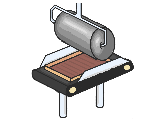
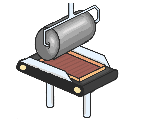
base game template working

Changed region(s): [[0.1067, 0.024, 0.9067, 0.96]]

diff --git a/src/scene/game.js b/src/scene/game.js
@@ -1,23 +1,63 @@
+// const e = require("express");
+
 console.log('game.js running')
 
 var smolDict = {
-    "natural": { "x": 275, "y": 280, "scale": 1.1},
-    "renewable": { "x": 275, "y": 280, "scale": 1.1},
-    "hydroponic": { "x": 300, "y": 300, "scale": 0.7},
-    "soil": {"x": 300, "y": 300, "scale": 1.3},
-    "aquaponic": {"x": 300, "y": 300, "scale": 1.1},
-    "harvester": {"x": 375, "y": 325, "scale": 1.2},
-    "seeding": {"x": 350, "y": 325, "scale": 1.2},
-    "sensor": {"x": 350, "y": 325, "scale": 1.2}
+    'currentElectricity': 0,
+    'totalElectricityAllowable': 1,
+    'currentLeaf': 0 , 
+    'totalLeafAllowable': 1, 
+    'currentRobot': 0, 
+    'totalRobotAllowable': 1,
+    "natural":      { "x": 380, "y": 270, "scale": 1.1},
+    "renewable":    { "x": 380, "y": 270, "scale": 1.1},
+    "hydroponic":   { "x": 260, "y": 260, "scale": 0.7},
+    "soil":         { "x": 260, "y": 260, "scale": 1.3},
+    "aquaponic":    { "x": 260, "y": 260, "scale": 1.0},
+    "harvester":    { "x": 375, "y": 290, "scale": 1.2},
+    "seeding":      { "x": 350, "y": 310, "scale": 1.0},
+    "sensor":       { "x": 290, "y": 300, "scale": 1.3}
 };
 
-var mediumDict = {    
-    "natural": { "x": 600, "y": 200, "scale": 1.2}
+var mediumDict = {
+    'currentElectricity': 0,
+    'totalElectricityAllowable': 1,
+    'currentLeaf': 0 , 
+    'totalLeafAllowable': 1, 
+    'currentRobot': 0, 
+    'totalRobotAllowable': 2,
+    "natural":      { "x": 330, "y": 270, "scale": 1.1},
+    "renewable":    { "x": 330, "y": 270, "scale": 1.1},
+    "hydroponic":   { "x": 200, "y": 290, "scale": 0.7},
+    "soil":         { "x": 200, "y": 290, "scale": 1.3},
+    "aquaponic":    { "x": 200, "y": 290, "scale": 1.0},
+    "harvester":    { "x": 410, "y": 275, "scale": 1.2},
+    "seeding":      { "x": 320, "y": 310, "scale": 1.0},
+    "sensor":       { "x": 220, "y": 340, "scale": 1.3}
 };
 
 var largeDict = {
-    "natural": { "x": 100, "y": 400, "scale": 1.2}
+    'currentElectricity': 0,
+    'totalElectricityAllowable': 1,
+    'currentLeaf': 0 , 
+    'totalLeafAllowable': 1, 
+    'currentRobot': 0, 
+    'totalRobotAllowable': 3,
+    "natural":      { "x": 350, "y": 210, "scale": 1.1},
+    "renewable":    { "x": 350, "y": 210, "scale": 1.1},
+    "hydroponic":   { "x": 230, "y": 270, "scale": 0.8},
+    "soil":         { "x": 230, "y": 270, "scale": 1.4},
+    "aquaponic":    { "x": 230, "y": 270, "scale": 1.1},
+    "harvester":    { "x": 460, "y": 230, "scale": 1.2},
+    "seeding":      { "x": 360, "y": 270, "scale": 1.0},
+    "sensor":       { "x": 230, "y": 320, "scale": 1.3}
 };
+
+// var categories = {
+//     'Electricity' : ['natural', 'renewable'],
+//     'Leaf': ['hydroponic', 'soil', 'aquaponic'],
+//     'Robot': ['harvester', 'seeding', 'sensor']
+// };
 
 var gameScene = new Phaser.Class({
     Extends: Phaser.Scene,
@@ -25,7 +65,7 @@ var gameScene = new Phaser.Class({
         Phaser.Scene.call(this, { "key": "gameScene" });
     },
     init: function(data) {
-        this.roomSize = 0;//data.roomSize; //0 = smol, 1 = medium, 2 = large
+        this.roomSize = 2;//data.roomSize; //0 = smol, 1 = medium, 2 = large
         this.initialTime = 300; //5 minutes timer
     },
     preload: function() {
@@ -38,6 +78,7 @@ var gameScene = new Phaser.Class({
         this.load.image("human", "../assets/gameButtons/human.png");
         this.load.image("leaf", "../assets/gameButtons/leaf.png");
         this.load.image("robot", "../assets/gameButtons/robot.png");
+        this.load.image("done-button", "../assets/gameButtons/done-button.png");        
         
         //option tiles
         this.load.image("harvester", "../assets/tiles/harvester.png");
@@ -80,8 +121,14 @@ var gameScene = new Phaser.Class({
         this.add.image(550, 25, 'sb').setOrigin(0, 0).setScale(1.1);
         
         //adding image of room onto the canvas
-        this.room = this.add.image(50, 100, "roomImage").setOrigin(0, 0);
+        this.room = this.add.image(50, 75, "roomImage").setOrigin(0, 0);
         this.room.setScale(2);
+        
+        //adding in-game error message
+        this.errorText = this.add.text(200, 410, '',
+            {
+                fontSize: 30, color: "#FFFFFF", fontStyle: "bold"
+            });
         
         //adding countdown timer at the top of the page
         this.timeText = this.add.text(32,32, 'Countdown: ' + formatTime(this.initialTime),
@@ -188,10 +235,11 @@ var gameScene = new Phaser.Class({
 
     update: function() {
         if (this.initialTime == 0){
-            this.scene.start("testScene ");
+            this.scene.start("testScene");
         }
     },
 
+    //callbacks to trigger side bar display, trigger event is respective button clicks
     electricityDisplay: function() {
         console.log("Electricity Display triggered");
         var x;
@@ -235,11 +283,31 @@ var gameScene = new Phaser.Class({
         console.log("Human Display triggered");
     },
 
+    //callback to trigger placement of tiles on the room, trigger event is clicking on tiles on side bar
     tileCallback: function(sprite) {
+        this.errorText.setText('');
         console.log('tile callback triggered');
-        console.log(this.roomSize)
-        console.log(this.roomData)
-        this.add.sprite(this.roomData[sprite]["x"], this.roomData[sprite]["y"], sprite).setScale(this.roomData[sprite]["scale"])
+        console.log('Before', this.roomData);
+        var category;
+        if ( sprite == "natural" || sprite == "renewable") {
+            category = "Electricity";
+        } else if ( sprite == 'hydroponic' || sprite == 'soil' || sprite == "aquaponic" ) {
+            category = "Leaf";
+        } else if ( sprite == "harvester" || sprite == "seeding" || sprite == "sensor" ) {
+            category = "Robot";
+        };
+
+        if ( this.roomData['current'+ category] + 1 <= this.roomData['total' + category+ 'Allowable']) {
+                this.add.sprite(this.roomData[sprite]["x"], this.roomData[sprite]["y"], sprite).setScale(this.roomData[sprite]["scale"]);
+                this.roomData ['current' + category] += 1;
+        } else {
+            this.errorText.setText('Insufficient space');
+        };
+        if ( this.roomData['currentElectricity'] == this.roomData['totalElectricityAllowable'] && 
+            this.roomData['currentLeaf'] == this.roomData['totalLeafAllowable']){
+                this.done = this.add.sprite(240, 420, 'done-button').setOrigin(0,0).setScale(0.25);
+        }
+        console.log("After:", this.roomData);
     }
 });
 
